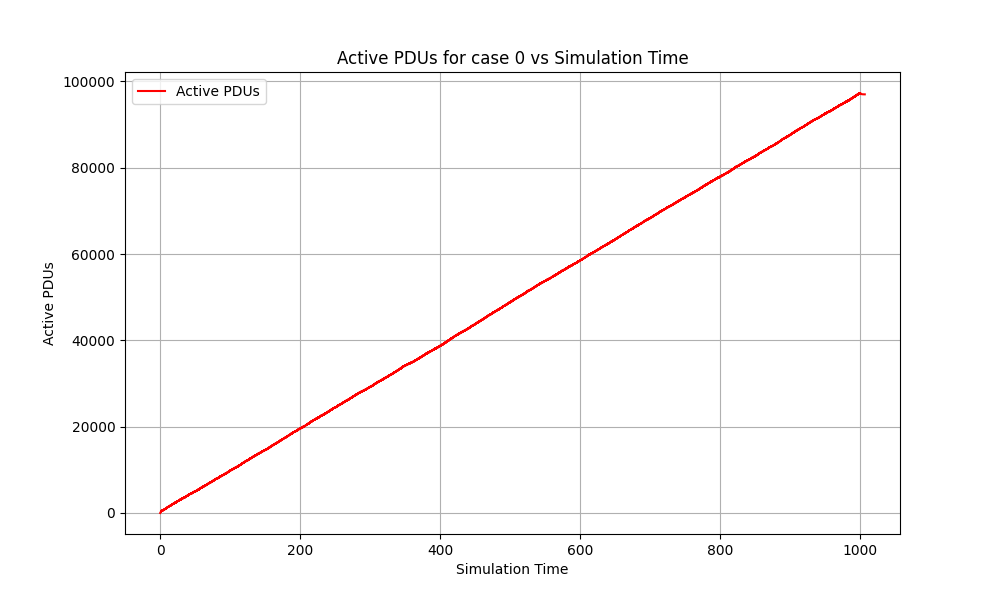
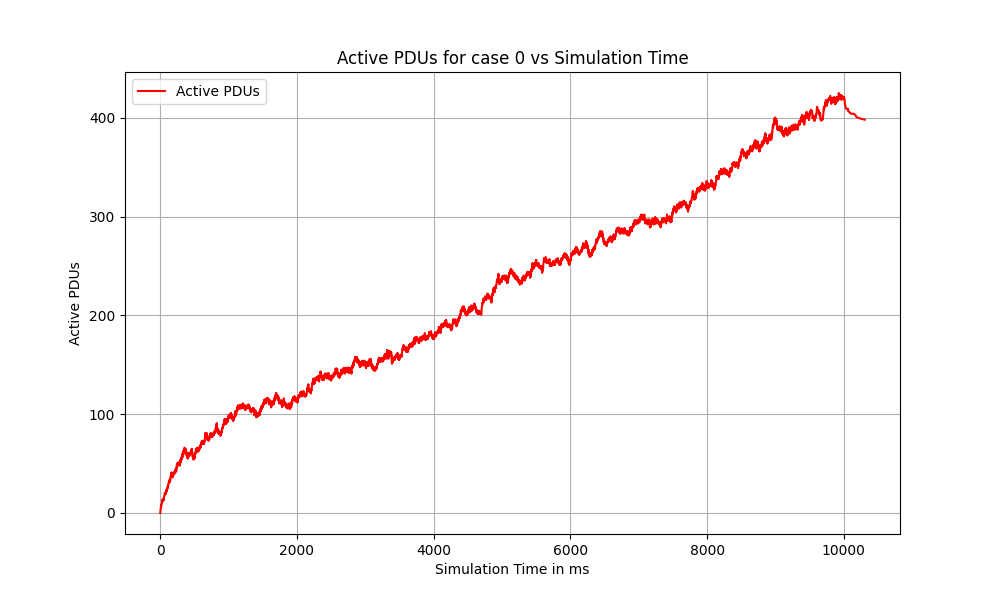
made minor changes, lambda and mu in seconds, simulation in milliseconds, added ceil functions to time

diff --git a/main.py b/main.py
@@ -152,12 +152,12 @@ class Scheduler:
         """
         Generate a new PDU session event.
         """
-        message = f"Time: {self.current_time}, UE generates PDU session"
+        message = f"Time: {np.ceil(self.current_time)}, UE generates PDU session"
         self._log(message)
         session_id = self.session_counter
         self.session_counter += 1
-        duration = np.random.exponential(1/self.mu)
-        session = PDUSession(session_id, self.current_time, duration)
+        duration = (np.random.exponential(1/self.mu)*1000)
+        session = PDUSession(session_id, np.ceil(self.current_time), duration)
 
         # Find an available UPF
         if self.upf_case == 0:
@@ -165,7 +165,7 @@ class Scheduler:
         elif self.upf_case == 1:
             available_upf = self.get_upf_with_lowest_sessions() if self.upfs else None
         else:
-            message = f"Time: {self.current_time}, No UPF available"
+            message = f"Time: {np.ceil(self.current_time)}, No UPF available"
             self._log(message)
 
         # If no available UPF, scale out if possible
@@ -174,9 +174,9 @@ class Scheduler:
                 self.scale_out()
                 available_upf = self.upfs[-1]
             else:
-                message = f"Time: {self.current_time}, Cannot scale out due to maximum UPF instances reached"
+                message = f"Time: {np.ceil(self.current_time)}, Cannot scale out due to maximum UPF instances reached"
                 self._log(message)
-                message = (f"Time: {self.current_time}, Cannot assign PDU session to UPF because of resource "
+                message = (f"Time: {np.ceil(self.current_time)}, Cannot assign PDU session to UPF because of resource "
                            f"constraints, terminating PDU session")
                 self._log(message)
                 self.terminate_pdu_session(session)
@@ -187,18 +187,18 @@ class Scheduler:
                 self.scale_out()
                 available_upf = self.upfs[-1]
 
-            message = f"Time: {self.current_time}, UE sends PDU session {session_id} request to Compute Node"
+            message = f"Time: {np.ceil(self.current_time)}, UE sends PDU session {session_id} request to Compute Node"
             self._log(message)
             available_upf.add_session(session)
             self.active_sessions += 1
             self.update_free_slots()
-            end_event = Event(EVENT_TERMINATE_PDU_SESSION, self.current_time + duration)
+            end_event = Event(EVENT_TERMINATE_PDU_SESSION, np.ceil(self.current_time) + duration)
             heapq.heappush(self.event_queue, end_event)
 
-            message = (f"Time: {self.current_time}, Compute Node allocates UPF {available_upf.upf_id} for PDU session "
+            message = (f"Time: {np.ceil(self.current_time)}, Compute Node allocates UPF {available_upf.upf_id} for PDU session "
                        f"{session_id}")
             self._log(message)
-            message = f"Time: {self.current_time}, PDU Session {session_id} started on UPF {available_upf.upf_id}"
+            message = f"Time: {np.ceil(self.current_time)}, PDU Session {session_id} started on UPF {available_upf.upf_id}"
             self._log(message)
 
     def terminate_pdu_session(self, session):
@@ -212,7 +212,7 @@ class Scheduler:
             upf.remove_session(session)
             self.active_sessions -= 1
             self.update_free_slots()
-            message = f"Time: {self.current_time}, PDU Session {session.session_id} terminated on UPF {upf.upf_id}"
+            message = f"Time: {np.ceil(self.current_time)}, PDU Session {session.session_id} terminated on UPF {upf.upf_id}"
             self._log(message)
             if self.free_slots == self.scale_in_threshold and self.num_upf_instances >= self.min_upf_instances + 1:
                 self.scale_in(upf)
@@ -228,7 +228,7 @@ class Scheduler:
             self.upfs.append(new_upf)
             self.num_upf_instances += 1
             self.update_free_slots()
-            message = f"Time: {self.current_time}, Compute Node launches UPF {new_upf_id}"
+            message = f"Time: {np.ceil(self.current_time)}, Compute Node launches UPF {new_upf_id}"
             self._log(message)
 
     def scale_in(self, upf):
@@ -241,7 +241,7 @@ class Scheduler:
             self.upfs.remove(upf)
             self.num_upf_instances -= 1
             self.update_free_slots()
-            message = f"Time: {self.current_time}, Compute Node terminates UPF {upf.upf_id}"
+            message = f"Time: {np.ceil(self.current_time)}, Compute Node terminates UPF {upf.upf_id}"
             self._log(message)
 
     def run(self):
@@ -262,7 +262,7 @@ class Scheduler:
         generation_event = Event(EVENT_GENERATE_PDU_SESSION, 0)
         heapq.heappush(self.event_queue, generation_event)
 
-        while self.current_time < self.simulation_time or self.event_queue:
+        while np.ceil(self.current_time) < self.simulation_time or self.event_queue:
             if not self.event_queue:
                 break
 
@@ -273,13 +273,13 @@ class Scheduler:
             upf_counts.append(self.next_upf_id)  # Record UPF count
             active_pdu_counts.append(self.active_sessions)  # Record active PDU count
             active_upf_counts.append(self.num_upf_instances)  # Record active UPF count
-            time_points.append(self.current_time)  # Record time
+            time_points.append(np.ceil(self.current_time))  # Record time
 
             if event.event_type == EVENT_GENERATE_PDU_SESSION:
                 self.generate_pdu_session()
 
                 # Schedule the next PDU session generation
-                next_generation_time = self.current_time + np.random.exponential(1 / self.arrival_rate)
+                next_generation_time = np.ceil(self.current_time + (np.random.exponential(1 / self.arrival_rate)*1000))
                 if next_generation_time <= self.simulation_time:
                     generation_event = Event(EVENT_GENERATE_PDU_SESSION, next_generation_time)
                     heapq.heappush(self.event_queue, generation_event)
@@ -293,7 +293,7 @@ class Scheduler:
 
         # Terminate any remaining UPFs
         for upf in self.upfs:
-            message = f"Time: {self.current_time}, Compute Node terminates UPF {upf.upf_id}"
+            message = f"Time: {np.ceil(self.current_time)}, Compute Node terminates UPF {upf.upf_id}"
             self._log(message)
 
         self._log(f"Simulation completed. Total PDU sessions processed: {self.session_counter}. "
@@ -319,9 +319,9 @@ if __name__ == "__main__":
     parser.add_argument("--max-sessions-per-upf", type=int, default=8, help="Maximum number of sessions per UPF (C)")
     parser.add_argument("--scale-out-threshold", type=int, default=3, help="Scale-out threshold (T1)")
     parser.add_argument("--scale-in-threshold", type=int, default=13, help="Scale-in threshold (T2)")
-    parser.add_argument("--simulation-time", type=int, default=1000, help="Simulation time")
-    parser.add_argument("--arrival_rate", type=int, default=500, help="Inter-arrival rate (λ)")
-    parser.add_argument("--mu", type=int, default=1, help="parameter for session duration (µ)")
+    parser.add_argument("--simulation-time", type=int, default=10000, help="Simulation time in milliseconds")
+    parser.add_argument("--arrival_rate", type=int, default=500, help="Inter-arrival rate in seconds (λ)")
+    parser.add_argument("--mu", type=int, default=10, help="parameter for session duration in seconds (µ)")
     parser.add_argument("--output-file", type=str, default="simulation.log", help="File to write simulation outputs")
 
     args = parser.parse_args()

diff --git a/post_processing.py b/post_processing.py
@@ -25,7 +25,7 @@ def generate_plots_case0(time_points, pdu_counts, upf_counts, active_pdu_counts,
     # Plot PDU against simulation time
     plt.figure(figsize=(10, 6))
     plt.plot(time_points, pdu_counts, label='PDU Count', color='blue')
-    plt.xlabel('Simulation Time')
+    plt.xlabel('Simulation Time in ms')
     plt.ylabel('PDUs')
     plt.title('PDU for case 0 vs Simulation Time')
     plt.grid(True)
@@ -36,7 +36,7 @@ def generate_plots_case0(time_points, pdu_counts, upf_counts, active_pdu_counts,
     # Plot UPF against simulation time
     plt.figure(figsize=(10, 6))
     plt.plot(time_points, upf_counts, label='UPF Count', color='green')
-    plt.xlabel('Simulation Time')
+    plt.xlabel('Simulation Time in ms')
     plt.ylabel('UPFs')
     plt.title('UPF for case 0 vs Simulation Time')
     plt.grid(True)
@@ -46,7 +46,7 @@ def generate_plots_case0(time_points, pdu_counts, upf_counts, active_pdu_counts,
 
     plt.figure(figsize=(10, 6))
     plt.plot(time_points, active_pdu_counts, label='Active PDUs', color='red')
-    plt.xlabel('Simulation Time')
+    plt.xlabel('Simulation Time in ms')
     plt.ylabel('Active PDUs')
     plt.title('Active PDUs for case 0 vs Simulation Time')
     plt.grid(True)
@@ -57,7 +57,7 @@ def generate_plots_case0(time_points, pdu_counts, upf_counts, active_pdu_counts,
     # Plot active UPFs against simulation time
     plt.figure(figsize=(10, 6))
     plt.plot(time_points, active_upf_counts, label='Active UPFs', color='orange')
-    plt.xlabel('Simulation Time')
+    plt.xlabel('Simulation Time in ms')
     plt.ylabel('Active UPFs')
     plt.title('Active UPFs for case 0 vs Simulation Time')
     plt.grid(True)
@@ -108,7 +108,7 @@ def generate_plots_case1(time_points, pdu_counts, upf_counts, active_pdu_counts,
     # Plot PDU against simulation time
     plt.figure(figsize=(10, 6))
     plt.plot(time_points, pdu_counts, label='PDU Count', color='blue')
-    plt.xlabel('Simulation Time')
+    plt.xlabel('Simulation Time in ms')
     plt.ylabel('PDUs')
     plt.title('PDU for case 1 vs Simulation Time')
     plt.grid(True)
@@ -119,7 +119,7 @@ def generate_plots_case1(time_points, pdu_counts, upf_counts, active_pdu_counts,
     # Plot UPF against simulation time
     plt.figure(figsize=(10, 6))
     plt.plot(time_points, upf_counts, label='UPF Count', color='green')
-    plt.xlabel('Simulation Time')
+    plt.xlabel('Simulation Time in ms')
     plt.ylabel('UPFs')
     plt.title('UPF for case 1 vs Simulation Time')
     plt.grid(True)
@@ -129,7 +129,7 @@ def generate_plots_case1(time_points, pdu_counts, upf_counts, active_pdu_counts,
 
     plt.figure(figsize=(10, 6))
     plt.plot(time_points, active_pdu_counts, label='Active PDUs', color='red')
-    plt.xlabel('Simulation Time')
+    plt.xlabel('Simulation Time in ms')
     plt.ylabel('Active PDUs')
     plt.title('Active PDUs for case 1 vs Simulation Time')
     plt.grid(True)
@@ -140,7 +140,7 @@ def generate_plots_case1(time_points, pdu_counts, upf_counts, active_pdu_counts,
     # Plot active UPFs against simulation time
     plt.figure(figsize=(10, 6))
     plt.plot(time_points, active_upf_counts, label='Active UPFs', color='orange')
-    plt.xlabel('Simulation Time')
+    plt.xlabel('Simulation Time in ms')
     plt.ylabel('Active UPFs')
     plt.title('Active UPFs for case 1 vs Simulation Time')
     plt.grid(True)
